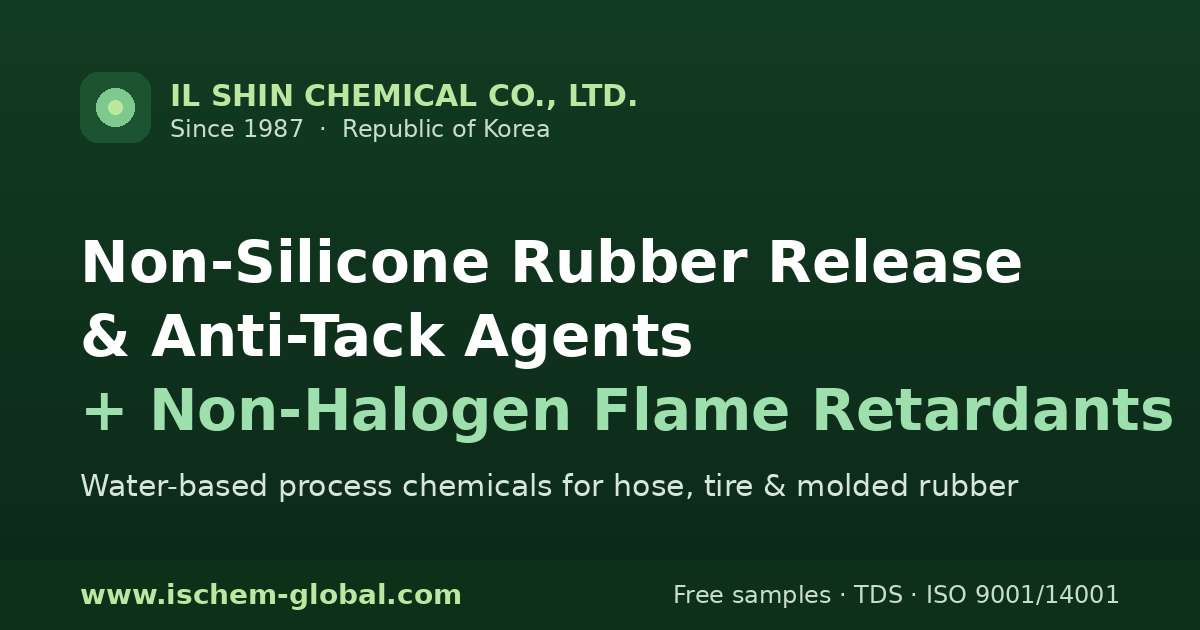
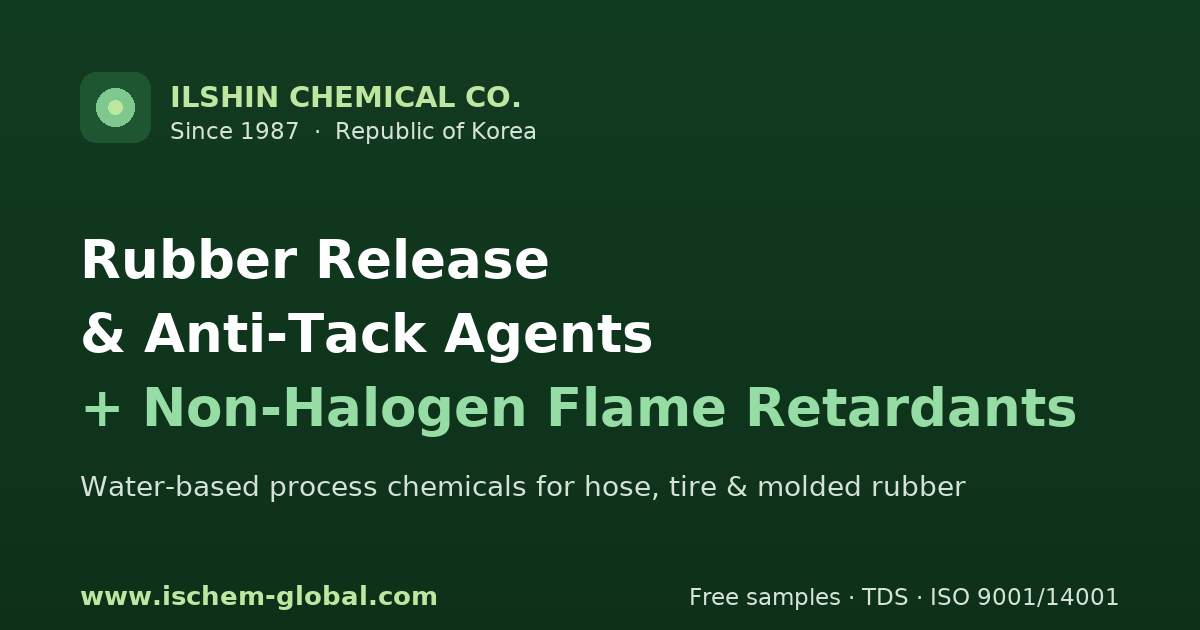
site: drop non-silicone emphasis from title and hero; add six products (NC-701, ANTICX-D, ANTICX-MXR, IDP-Polymer, DEFOAMER-SC, DF-600); og-image company name

diff --git a/index.html b/index.html
@@ -3,7 +3,7 @@
 <head>
 <meta charset="UTF-8" />
 <meta name="viewport" content="width=device-width, initial-scale=1.0" />
-<title>Ilshin Chemical — Non-Silicone Rubber Release Agents & Non-Halogen Flame Retardants</title>
+<title>Ilshin Chemical — Rubber Release & Anti-Tack Agents, Non-Halogen Flame Retardants & Antistatic Agents</title>
 <meta name="description" content="Korean manufacturer of water-based rubber process chemicals: non-silicone mandrel release & anti-tack agents (HR-908, NEWMOL-A, RS-620), plus extrusion release (HS-50R) and cleaner (RC-25) for rubber hose and tire production. Non-halogen flame retardants & antistatic agents (FRO-70, FRP-100/300, NC-860, AT-809). Free samples & TDS. Since 1987, ISO 9001/14001." />
 <link rel="canonical" href="https://www.ischem-global.com/" />
 <meta name="robots" content="index, follow" />
@@ -12,19 +12,19 @@
 <!-- Open Graph -->
 <meta property="og:type" content="website" />
 <meta property="og:site_name" content="ILSHIN CHEMICAL CO." />
-<meta property="og:title" content="Ilshin Chemical — Non-Silicone Rubber Release Agents & Non-Halogen Flame Retardants" />
+<meta property="og:title" content="Ilshin Chemical — Rubber Release & Anti-Tack Agents, Non-Halogen Flame Retardants & Antistatic Agents" />
 <meta property="og:description" content="Korean manufacturer of non-silicone, water-based release & anti-tack agents for rubber hose and tire production, plus non-halogen flame retardants & antistatic agents. Free samples & TDS. Since 1987." />
 <meta property="og:url" content="https://www.ischem-global.com/" />
 <meta property="og:image" content="https://www.ischem-global.com/og-image.png" />
 <meta property="og:image:width" content="1200" />
 <meta property="og:image:height" content="630" />
-<meta property="og:image:alt" content="Ilshin Chemical — non-silicone rubber release, anti-tack and non-halogen flame retardant chemicals" />
+<meta property="og:image:alt" content="Ilshin Chemical — rubber release, anti-tack and non-halogen flame retardant chemicals" />
 <meta property="og:locale" content="en_US" />
 <meta property="og:locale:alternate" content="ko_KR" />
 
 <!-- Twitter -->
 <meta name="twitter:card" content="summary_large_image" />
-<meta name="twitter:title" content="Ilshin Chemical — Non-Silicone Rubber Release Agents & Non-Halogen Flame Retardants" />
+<meta name="twitter:title" content="Ilshin Chemical — Rubber Release & Anti-Tack Agents, Non-Halogen Flame Retardants & Antistatic Agents" />
 <meta name="twitter:description" content="Non-silicone, water-based release & anti-tack agents for rubber hose and tire production, plus non-halogen flame retardants & antistatic agents. Free samples & TDS." />
 <meta name="twitter:image" content="https://www.ischem-global.com/og-image.png" />
 
@@ -368,9 +368,9 @@
   </svg>
   <div class="wrap">
     <div class="kicker">I L S H I N &nbsp; C H E M I C A L &nbsp; C O.</div>
-    <span class="tag">SILICONE-FREE · WATER-BASED</span>
-    <h1>Non-Silicone Rubber Release &amp; Anti-Tack Agents <em>+ Non-Halogen Flame Retardants</em></h1>
-    <p>Trusted by rubber hose and tire manufacturers worldwide since 1987. Silicone-free chemistry — safe for downstream bonding, painting, and clean processing.</p>
+    <span class="tag">WATER-BASED RUBBER PROCESS CHEMICALS</span>
+    <h1>Rubber Release &amp; Anti-Tack Agents <em>+ Non-Halogen Flame Retardants</em></h1>
+    <p>Trusted by rubber hose and tire manufacturers worldwide since 1987. Water-based chemistry matched to your process — mandrel release, anti-tack, extrusion and mold release.</p>
     <div class="cta">
       <a class="btn" href="#contact">Request a Free Sample / TDS <span class="ar">→</span></a>
       <a class="btn ghost" href="#products">View Products</a>
@@ -389,10 +389,10 @@
 <section>
   <div class="wrap">
     <div class="eyebrow rv">Why Ilshin</div>
-    <h2 class="stitle rv">One clear advantage: silicone-free, water-based chemistry</h2>
-    <p class="lead rv">Most release and anti-tack agents are silicone-based or solvent-borne. Ours are neither — which is exactly why they work where the others cause problems.</p>
+    <h2 class="stitle rv">Water-based chemistry, matched to your process</h2>
+    <p class="lead rv">Tell us the rubber and the process step — we recommend the grade that fits, with technical data and a free trial sample.</p>
     <div class="vals">
-      <div class="val rv"><div class="ic"><svg viewBox="0 0 24 24" fill="none" stroke="currentColor" stroke-width="1.8" stroke-linecap="round" stroke-linejoin="round"><path d="M12 3.5s5 5.2 5 8.7a5 5 0 0 1-10 0c0-3.5 5-8.7 5-8.7z"/><line x1="5.5" y1="18.5" x2="18.5" y2="5.5"/></svg></div><h3>Silicone-Free</h3><p>No silicone contamination — ideal where bonding, painting or food-contact processing follows.</p></div>
+      <div class="val rv"><div class="ic"><svg viewBox="0 0 24 24" fill="none" stroke="currentColor" stroke-width="1.8" stroke-linecap="round" stroke-linejoin="round"><line x1="4" y1="7" x2="20" y2="7"/><line x1="4" y1="12" x2="20" y2="12"/><line x1="4" y1="17" x2="20" y2="17"/><circle cx="9" cy="7" r="2"/><circle cx="15" cy="12" r="2"/><circle cx="8" cy="17" r="2"/></svg></div><h3>Matched by Process</h3><p>Mandrel release, anti-tack, extrusion and mold release each call for a different grade — we recommend by rubber and process.</p></div>
       <div class="val rv"><div class="ic"><svg viewBox="0 0 24 24" fill="none" stroke="currentColor" stroke-width="1.8" stroke-linecap="round" stroke-linejoin="round"><path d="M12 3.5s5.2 5.4 5.2 9A5.2 5.2 0 0 1 6.8 12.5C6.8 8.9 12 3.5 12 3.5z"/><path d="M9.8 13.3a2.6 2.6 0 0 0 2.2 2.3"/></svg></div><h3>Water-Based &amp; Eco-Friendly</h3><p>Operator-safe, low-odor, no solvent fumes, easy warm-water cleanup.</p></div>
       <div class="val rv"><div class="ic"><svg viewBox="0 0 24 24" fill="none" stroke="currentColor" stroke-width="1.8" stroke-linecap="round" stroke-linejoin="round"><path d="M12 3l7 2.6v5.2c0 4.4-3 7.4-7 8.9-4-1.5-7-4.5-7-8.9V5.6L12 3z"/><path d="M9 12l2 2 4-4.2"/></svg></div><h3>Proven Quality</h3><p>ISO 9001 / 14001, supplying global hose and tire makers. TDS / SDS / COA on request.</p></div>
     </div>
@@ -441,21 +441,27 @@
 
     <div class="rv" style="margin-top:56px;display:flex;align-items:center;gap:12px;flex-wrap:wrap">
       <h3 style="font-size:20px;color:var(--navy)">Performance Additives</h3>
-      <span class="pill">FLAME RETARDANTS · ANTISTATIC AGENTS</span>
+      <span class="pill">FLAME RETARDANTS · ANTISTATIC AGENTS · DEFOAMERS</span>
     </div>
-    <p class="lead rv" style="margin:12px 0 26px">Non-halogen flame retardants and antistatic agents for coatings, plastics, cables, electronics and textiles. We recommend by process — tell us your medium and target and we lead with the right grade. TDS on request.</p>
+    <p class="lead rv" style="margin:12px 0 26px">Non-halogen flame retardants and antistatic agents for coatings, plastics, cables, electronics and textiles, plus defoamers for industrial processes. We recommend by process — tell us your medium and target and we lead with the right grade. TDS on request.</p>
     <div class="prods">
       <div class="prod rv">
         <div class="code">FLAME RETARDANTS</div>
         <h3>Non-Halogen Flame Retardants — 12 grades</h3>
         <p>Phosphorus and P+N hybrid chemistry, chlorine/bromine free (per product catalogue), RoHS oriented — for water / oil / UV coatings, PU foam, resins, silicone and textiles.</p>
-        <ul><li><b>FRO-70</b> — one grade for both oil &amp; water lines</li><li><b>FRP-100 / FRP-300</b> — dedicated smoke suppression (rail, marine, construction)</li><li><b>NC-860</b> — P+N hybrid for water-based acrylic coatings</li></ul>
+        <ul><li><b>FRO-70</b> — one grade for both oil &amp; water lines</li><li><b>FRP-100 / FRP-300</b> — dedicated smoke suppression (rail, marine, construction)</li><li><b>NC-860</b> — P+N hybrid for water-based acrylic coatings</li><li><b>NC-701</b> — flame retardant with plasticity for natural and synthetic rubbers</li></ul>
       </div>
       <div class="prod rv">
         <div class="code">ANTISTATIC AGENTS</div>
         <h3>Antistatic Agents — antistatic to conductive (ESD)</h3>
         <p>Target a specific surface resistance — from standard antistatic through to the conductive range for ESD trays &amp; packaging. For coatings, plastics / PVC, masterbatch and synthetic textiles.</p>
-        <ul><li><b>AT-809</b> — flagship for water/oil PU-PA coatings, lowest dosage</li><li><b>AT-109</b> — oil-based, higher-performance grade for demanding antistatic</li><li>Conductive (ESD) grade for trays &amp; packaging (conductive filler — opaque parts)</li><li>RoHS / halogen-free (per catalogue); textile grades APEO/NPEO free</li><li>English MSDS available; grade matched to your target surface resistance by trial</li></ul>
+        <ul><li><b>AT-809</b> — flagship for water/oil PU-PA coatings, lowest dosage</li><li><b>AT-109</b> — oil-based, higher-performance grade for demanding antistatic</li><li><b>ANTICX-D</b> — for PVC transparent sheet and resins requiring transparency</li><li><b>ANTICX-MXR</b> — electroconductive filler for rubber and resins (ABS, PS, PC, PVC); ESD trays &amp; packaging, opaque parts</li><li><b>IDP-Polymer</b> — antistatic masterbatch for polyolefin (PE / PP) resins</li><li>RoHS / halogen-free (per catalogue); textile grades APEO/NPEO free</li><li>English MSDS available; grade matched to your target surface resistance by trial</li></ul>
+      </div>
+      <div class="prod rv">
+        <div class="code">DEFOAMERS</div>
+        <h3>Defoamers — silicone-based &amp; non-silicone</h3>
+        <p>Nonionic, APEO/NPEO-free defoamers that disperse readily in cold water. Tell us the process and what you use now — we recommend the type that fits.</p>
+        <ul><li><b>DEFOAMER-SC</b> — silicone-based; wastewater treatment and a wide range of industrial processes</li><li><b>DF-600</b> — non-silicone; for industries where silicone oil is prohibited</li></ul>
       </div>
     </div>
   </div>
